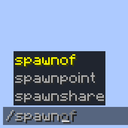
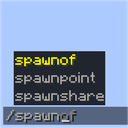
Limit Minecraft to 26.2.x on NeoForge and pin the conventions at 2.4.16
NeoForge now uses the conventions' ${minecraft_version_range}, matching Fabric's ~${minecraft_version}; loaders and libraries stay open-ended.

The icon is now square at a power of two (512 or 1024 px); docs/icon/README.md records how it was rescaled.

diff --git a/docs/icon/provenance/native_scale.py b/docs/icon/provenance/native_scale.py
@@ -1,0 +1,68 @@
+#!/usr/bin/env python3
+"""Turn the native capture crop into the shipped square icon (Pillow 12.3.0).
+
+The crop is Minecraft GUI pixel art: every GUI pixel is a BLOCK x BLOCK square of one
+colour. This script recovers the native GUI-pixel image by taking each block's majority
+colour (ties, which only occur on the faint sky-gradient seams, go to the candidate
+colour that is most common in the surrounding 3x3 blocks, then to the smallest RGB
+value), enlarges it FACTOR times with NEAREST, centres it on a transparent CANVAS x CANVAS
+square and writes ../icon.png. The mod's shipped copies are that icon resized to 128x128
+with LANCZOS.
+
+Run from docs/icon/provenance: python3 native_scale.py
+"""
+from collections import Counter
+from pathlib import Path
+
+from PIL import Image
+
+HERE = Path(__file__).resolve().parent
+REPO = HERE.parents[2]
+SOURCE = HERE / "frames" / "spawncommands-spawn-wide-full.png"
+BOX = (0, 1820, 340, 2160)  # the delivered 340x340 capture crop
+BLOCK, FACTOR, CANVAS = 4, 6, 512  # GUI scale 4 -> 85x85 native, x6 = 510 on 512
+SHIPPED = (
+    "common/src/main/resources/assets/spawncommands/icon.png",
+    "fabric/src/gametest/resources/assets/spawncommands/icon.png",
+)
+
+
+def native(crop):
+    w, h = crop.size
+    assert w % BLOCK == 0 and h % BLOCK == 0, (w, h, BLOCK)
+    px = crop.load()
+    nw, nh = w // BLOCK, h // BLOCK
+    counts = [
+        [Counter(px[bx * BLOCK + i, by * BLOCK + j] for i in range(BLOCK) for j in range(BLOCK)) for bx in range(nw)]
+        for by in range(nh)
+    ]
+    out = Image.new("RGB", (nw, nh))
+    op = out.load()
+    ties = 0
+    for by in range(nh):
+        for bx in range(nw):
+            c = counts[by][bx]
+            top = max(c.values())
+            cands = [col for col, n in c.items() if n == top]
+            if len(cands) > 1:
+                ties += 1
+                around = Counter()
+                for y in range(max(0, by - 1), min(nh, by + 2)):
+                    for x in range(max(0, bx - 1), min(nw, bx + 2)):
+                        around.update(counts[y][x])
+                cands.sort(key=lambda col: (-around[col], col))
+            op[bx, by] = cands[0]
+    return out, ties
+
+
+crop = Image.open(SOURCE).convert("RGB")
+if BOX is not None:
+    crop = crop.crop(BOX)
+small, ties = native(crop)
+big = small.resize((small.width * FACTOR, small.height * FACTOR), Image.Resampling.NEAREST)
+icon = Image.new("RGBA", (CANVAS, CANVAS))
+icon.paste(big, ((CANVAS - big.width) // 2, (CANVAS - big.height) // 2))
+icon.save(HERE.parent / "icon.png")
+for rel in SHIPPED:
+    icon.resize((128, 128), Image.Resampling.LANCZOS).save(REPO / rel)
+print(f"native {small.size}, {ties} tied blocks, x{FACTOR} -> {big.size} centred on {CANVAS}x{CANVAS}")

diff --git a/docs/icon/README.md b/docs/icon/README.md
@@ -2,11 +2,15 @@
 
 ## What this is
 
-The mod's icon: `icon.png` — 340x340 RGB PNG, 2 485 bytes,
[1 lines of base64/hex data omitted]
+The mod's icon: `icon.png` — 512x512 RGBA PNG, 3 807 bytes,
[1 lines of base64/hex data omitted]
 
-It is a real in-game screenshot of the mod's `/spawn` tab-completion, cropped to a square at
-native GUI scale 4. No resize, no resampling, no interpolation, no compositing, no padding.
+It is a real in-game screenshot of the mod's `/spawn` tab-completion: a 340x340 square crop
+captured at GUI scale 4, reduced to its native 85x85 GUI pixels, enlarged 6x with NEAREST to
+510x510 and centred on a transparent 512x512 canvas (1 px margin). No interpolation, no
+compositing. The mod ships 128x128 LANCZOS reductions of `icon.png` at
+`common/src/main/resources/assets/spawncommands/icon.png` and
+`fabric/src/gametest/resources/assets/spawncommands/icon.png`.
 
 ## How it was made
 
@@ -29,13 +33,21 @@ native GUI scale 4. No resize, no resampling, no interpolation, no compositing, 
 The client completes `/spawn` to `/spawnof` and draws the completions `spawnof` (selected,
 yellow), `spawnpoint` and `spawnshare` above the input line.
 
-The delivered image is the exact integer crop `(0, 1820, 340, 2160)` of
-`frames/spawncommands-spawn-wide-full.png`. Verified while creating this provenance: cropping
-the shipped frame to that box reproduces `icon.png` byte for byte, and `verify.py` had already
+The capture crop is the exact integer crop `(0, 1820, 340, 2160)` of
+`frames/spawncommands-spawn-wide-full.png` (340x340 RGB, sha256 `8feea9f4…`; until 2026-10-02
+it was shipped as `icon.png` itself). Verified while creating this provenance: cropping the
+shipped frame to that box reproduces that crop byte for byte, and `verify.py` had already
 asserted the same property against the session's own copy in `verification.json`
 (`exactSourceCrop: true`, file sha256 `8feea9f4…`).
 
-Layout inside the delivered image (all measured, native pixels): the completion panel occupies
+**Native-scale enlargement (2026-10-02).** The icon rule is square, a power of two, 512 or
+1024 px. The crop is pixel art: 11 colours, and every 4x4 block (GUI scale 4, aligned with the
+crop) is a single colour. `native_scale.py` takes each block's colour to recover the native
+85x85 image, enlarges it by the largest integer factor that fits 512 (6x, 510x510) with
+NEAREST, and centres it on a transparent 512x512 canvas. A LANCZOS 340→512 resize was
+rejected because it blurs every GUI pixel edge.
+
+Layout inside the capture crop (all measured, crop pixels): the completion panel occupies
 `x 36..279, y 136..279` (244x144 px, three 48 px rows, its own dark background included), so
 the sky margins are 36 px left and 60 px right of the panel. The native chat input line below
 the panel is included; its full-width background bar runs to the right edge of the crop,
@@ -47,7 +59,8 @@ exactly as in the source frame.
 |---|---|
 | `manifest.json` | Round-3 delivery record for the three crops2 icons, including this one's measured panel box and crop box |
 | `frames/spawncommands-spawn-wide-full.png` | **The native 5120x2160 F2 screenshot this icon is cropped from** |
-| `crop.py` | **The script that writes the three 340x340 crops** — `make_crop("spawncommands", …)` is the one that produced this file, and it also enumerates every feasible 340-wide crop to prove the minimum asymmetry |
+| `native_scale.py` | **The script that writes `icon.png`** from the frame and crop box (native 85x85 recovery, 6x NEAREST, centred on 512x512) and the two shipped 128x128 copies |
+| `crop.py` | **The script that writes the three 340x340 crops** — `make_crop("spawncommands", …)` is the one that produced the capture crop, and it also enumerates every feasible 340-wide crop to prove the minimum asymmetry |
 | `capture_scene.py` | The capture driver: scene verification, chat clearing, typing, F2, screenshot copy |
 | `prepare.py` | Builds this session's runtime from the BrainageHUD capture world (world, configs, options, argfile, launcher) |
 | `measure.py` | Ink/panel measurement of the native autocomplete band, with the per-entry glyph-line boxes |
@@ -80,7 +93,7 @@ python3 capture_scene.py capture spawncommands-spawn '/spawn'
 python3 crop.py && python3 verify.py                   # 340x340 crops + verification
 ```
 
-`crop.py` writes all three crops and the two report files together; the delivered file is the
+`crop.py` writes all three crops and the two report files together; the capture crop is the
 one it names `spawncommands-autocomplete-square.png`, i.e. exactly:
 
 ```sh
@@ -89,6 +102,12 @@ from PIL import Image
 Image.open('frames/spawncommands-spawn-wide-full.png').convert('RGB') \
      .crop((0, 1820, 340, 2160)).save('spawncommands-autocomplete-square.png')
 PY
+```
+
+Then write `icon.png` and the shipped copies (Pillow 12.3.0, from `docs/icon/provenance`):
+
+```sh
+python3 native_scale.py    # prints: native (85, 85), 0 tied blocks, x6 -> (510, 510) centred on 512x512
 ```
 
 Prerequisites not shipped: the Minecraft 26.2 client, Fabric Loader and the mod jars named in
